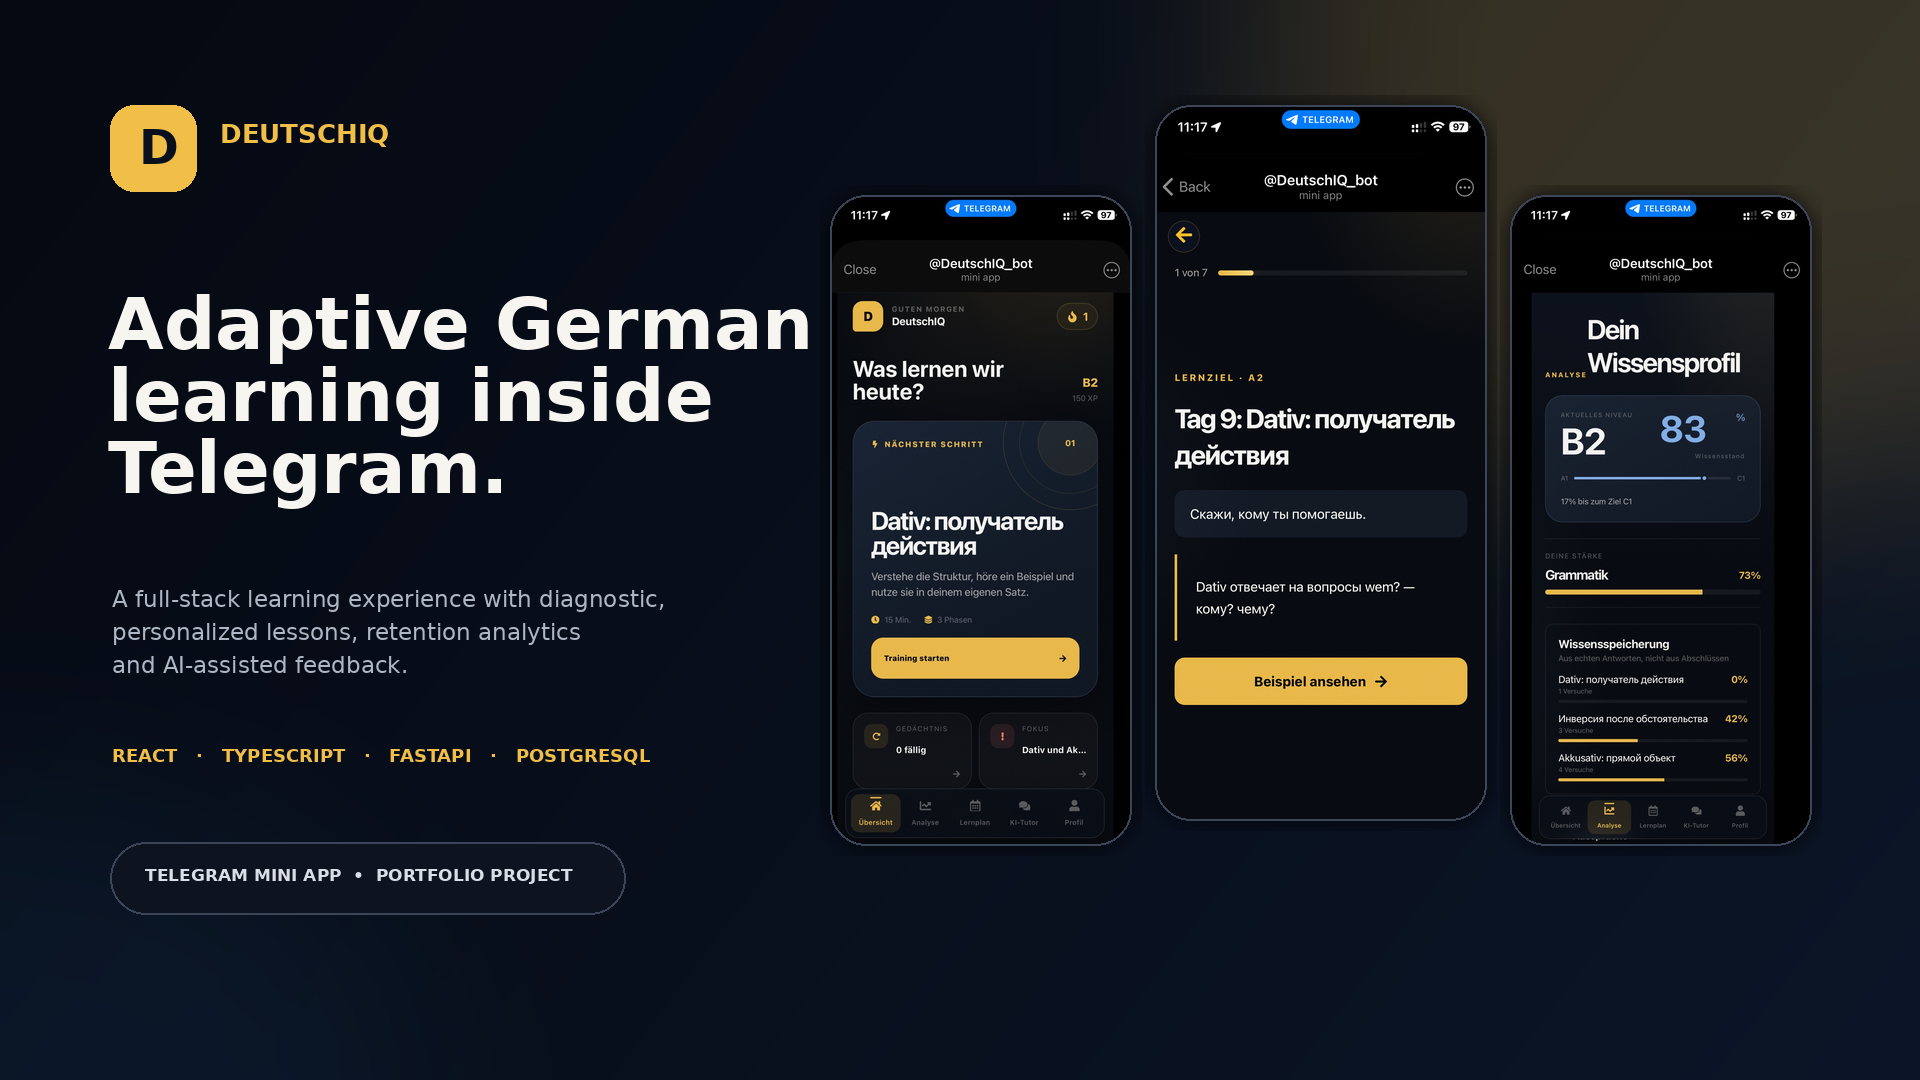
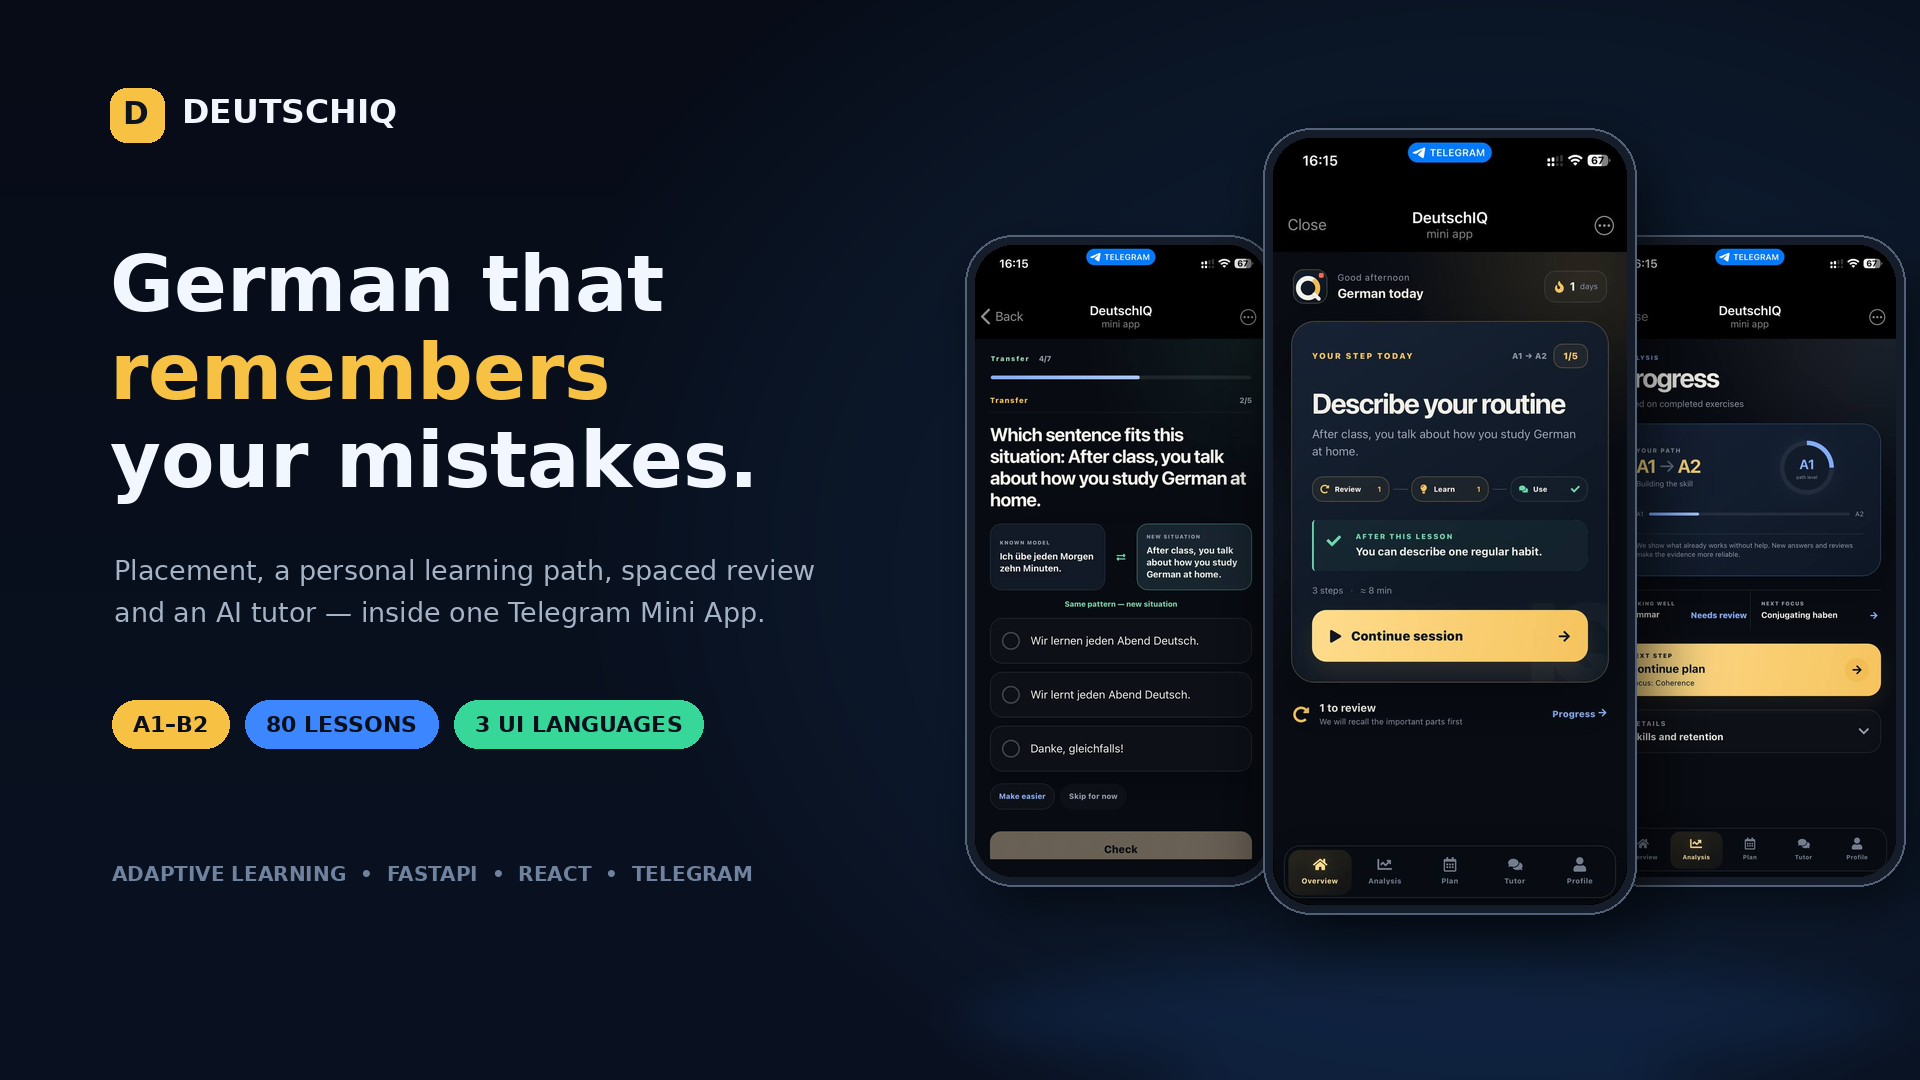
Refresh GitHub portfolio previews

diff --git a/tools/render_portfolio_previews.py b/tools/render_portfolio_previews.py
@@ -1,0 +1,173 @@
+#!/usr/bin/env python3
+"""Render deterministic GitHub portfolio previews from the current app captures."""
+
+from pathlib import Path
+
+from PIL import Image, ImageDraw, ImageFilter, ImageFont
+
+
+ROOT = Path(__file__).resolve().parents[1]
+SHOTS = ROOT / "docs" / "screenshots"
+W, H = 1920, 1080
+
+FONT_REGULAR = "/usr/share/fonts/truetype/dejavu/DejaVuSans.ttf"
+FONT_BOLD = "/usr/share/fonts/truetype/dejavu/DejaVuSans-Bold.ttf"
+
+INK = (242, 247, 255)
+MUTED = (165, 179, 199)
+GOLD = (247, 193, 67)
+BLUE = (60, 134, 255)
+GREEN = (55, 214, 153)
+
+
+def font(size: int, bold: bool = False) -> ImageFont.FreeTypeFont:
+    return ImageFont.truetype(FONT_BOLD if bold else FONT_REGULAR, size)
+
+
+def background() -> Image.Image:
+    image = Image.new("RGB", (W, H))
+    px = image.load()
+    for y in range(H):
+        for x in range(W):
+            base = y / H
+            glow = max(0.0, 1.0 - (((x - 1500) / 950) ** 2 + ((y - 460) / 720) ** 2))
+            px[x, y] = (
+                int(7 + 3 * base + 6 * glow),
+                int(12 + 6 * base + 15 * glow),
+                int(23 + 11 * base + 23 * glow),
+            )
+    return image
+
+
+def rounded_rect(draw: ImageDraw.ImageDraw, box, radius, fill, outline=None, width=1):
+    draw.rounded_rectangle(box, radius=radius, fill=fill, outline=outline, width=width)
+
+
+def phone(source: Path, width: int, *, border: int = 10, radius: int = 38) -> Image.Image:
+    shot = Image.open(source).convert("RGB")
+    height = round(width * shot.height / shot.width)
+    shot = shot.resize((width, height), Image.Resampling.LANCZOS)
+    mask = Image.new("L", shot.size, 0)
+    ImageDraw.Draw(mask).rounded_rectangle((0, 0, width - 1, height - 1), radius=radius, fill=255)
+    frame = Image.new("RGBA", (width + border * 2, height + border * 2), (0, 0, 0, 0))
+    fd = ImageDraw.Draw(frame)
+    fd.rounded_rectangle(
+        (0, 0, frame.width - 1, frame.height - 1),
+        radius=radius + border,
+        fill=(22, 29, 42, 255),
+        outline=(83, 98, 120, 255),
+        width=2,
+    )
+    frame.paste(shot, (border, border), mask)
+    return frame
+
+
+def paste_shadow(canvas: Image.Image, item: Image.Image, xy: tuple[int, int], blur=28, opacity=150):
+    shadow = Image.new("RGBA", canvas.size, (0, 0, 0, 0))
+    alpha = item.getchannel("A")
+    solid = Image.new("RGBA", item.size, (0, 0, 0, opacity))
+    solid.putalpha(alpha.point(lambda value: value * opacity // 255))
+    shadow.alpha_composite(solid, (xy[0] + 12, xy[1] + 24))
+    canvas.alpha_composite(shadow.filter(ImageFilter.GaussianBlur(blur)))
+    canvas.alpha_composite(item, xy)
+
+
+def pill(draw: ImageDraw.ImageDraw, x: int, y: int, text: str, color=GOLD):
+    f = font(22, True)
+    bounds = draw.textbbox((0, 0), text, font=f)
+    pw = bounds[2] - bounds[0] + 42
+    rounded_rect(draw, (x, y, x + pw, y + 48), 24, (*color, 255))
+    draw.text((x + 21, y + 11), text, font=f, fill=(9, 16, 27, 255))
+    return x + pw
+
+
+def draw_brand(draw: ImageDraw.ImageDraw, x=110, y=88):
+    rounded_rect(draw, (x, y, x + 54, y + 54), 16, GOLD)
+    draw.text((x + 13, y + 7), "D", font=font(31, True), fill=(14, 20, 30))
+    draw.text((x + 72, y + 4), "DEUTSCHIQ", font=font(33, True), fill=INK)
+
+
+def cover():
+    canvas = background().convert("RGBA")
+    draw = ImageDraw.Draw(canvas, "RGBA")
+    draw_brand(draw)
+
+    draw.text((110, 238), "German that", font=font(78, True), fill=INK)
+    draw.text((110, 326), "remembers", font=font(78, True), fill=GOLD)
+    draw.text((110, 414), "your mistakes.", font=font(78, True), fill=INK)
+
+    copy = [
+        "Placement, a personal learning path, spaced review",
+        "and an AI tutor — inside one Telegram Mini App.",
+    ]
+    for i, line in enumerate(copy):
+        draw.text((114, 554 + i * 42), line, font=font(27), fill=MUTED)
+
+    px = 112
+    for label, color in (("A1–B2", GOLD), ("80 LESSONS", BLUE), ("3 UI LANGUAGES", GREEN)):
+        px = pill(draw, px, 700, label, color) + 16
+
+    draw.text((112, 862), "ADAPTIVE LEARNING  •  FASTAPI  •  REACT  •  TELEGRAM", font=font(20, True), fill=(111, 130, 158))
+
+    left = phone(SHOTS / "03-lesson.png", 292)
+    center = phone(SHOTS / "01-home.png", 354)
+    right = phone(SHOTS / "05-analytics.png", 292)
+    paste_shadow(canvas, left, (965, 235), blur=24, opacity=125)
+    paste_shadow(canvas, right, (1594, 235), blur=24, opacity=125)
+    paste_shadow(canvas, center, (1263, 128), blur=34, opacity=185)
+
+    # Give the device group a quiet base rather than leaving it floating.
+    base = Image.new("RGBA", canvas.size, (0, 0, 0, 0))
+    bd = ImageDraw.Draw(base)
+    bd.ellipse((930, 944, 1920, 1088), fill=(33, 93, 180, 38))
+    canvas = Image.alpha_composite(canvas, base.filter(ImageFilter.GaussianBlur(28)))
+    return canvas.convert("RGB")
+
+
+def product_preview():
+    canvas = background().convert("RGBA")
+    draw = ImageDraw.Draw(canvas, "RGBA")
+    draw_brand(draw, 110, 68)
+    draw.text((110, 157), "One connected learning loop.", font=font(61, True), fill=INK)
+    draw.text(
+        (112, 235),
+        "From the first placement question to a plan, guided practice and personal support.",
+        font=font(26),
+        fill=MUTED,
+    )
+
+    items = [
+        ("01", "PLACE", "02-diagnostic.png", GOLD),
+        ("02", "UNDERSTAND", "08-result.png", BLUE),
+        ("03", "PLAN", "04-plan.png", GREEN),
+        ("04", "PRACTISE", "06-ai-tutor.png", GOLD),
+        ("05", "PROGRESS", "07-profile.png", BLUE),
+    ]
+    card_w, gap, start_x = 292, 48, 162
+    for index, (number, label, filename, accent) in enumerate(items):
+        x = start_x + index * (card_w + gap)
+        draw.text((x + 5, 330), number, font=font(23, True), fill=accent)
+        draw.text((x + 52, 330), label, font=font(22, True), fill=(190, 204, 223))
+        line_y = 372
+        draw.rounded_rectangle((x, line_y, x + card_w, line_y + 4), radius=2, fill=(*accent, 185))
+        device = phone(SHOTS / filename, card_w - 12, border=8, radius=30)
+        paste_shadow(canvas, device, (x - 2, 402), blur=20, opacity=135)
+
+    return canvas.convert("RGB")
+
+
+def main():
+    required = [SHOTS / f"{i:02d}-{name}.png" for i, name in enumerate(
+        ["home", "diagnostic", "lesson", "plan", "analytics", "ai-tutor", "profile", "result"], 1
+    )]
+    missing = [str(path) for path in required if not path.exists()]
+    if missing:
+        raise SystemExit("Missing screenshots:\n" + "\n".join(missing))
+
+    cover().save(SHOTS / "deutschiq-cover.png", optimize=True)
+    product_preview().save(SHOTS / "deutschiq-product-preview.png", optimize=True)
+    print("Rendered deutschiq-cover.png and deutschiq-product-preview.png")
+
+
+if __name__ == "__main__":
+    main()

diff --git a/README.md b/README.md
@@ -36,21 +36,27 @@ The public application runs as a Docker service on Render with a signed Telegram
 ## Product preview
 
 <p align="center">
-  <img src="docs/screenshots/01-home.png" width="230" alt="Personalized home screen">
-  <img src="docs/screenshots/02-diagnostic.png" width="230" alt="Adaptive German diagnostic">
-  <img src="docs/screenshots/03-lesson.png" width="230" alt="Interactive German lesson">
+  <img src="docs/screenshots/deutschiq-product-preview.png" alt="DeutschIQ product journey from placement to personal progress">
 </p>
 
-<p align="center">
-  <img src="docs/screenshots/04-plan.png" width="230" alt="Personalized learning plan">
-  <img src="docs/screenshots/05-analytics.png" width="230" alt="Knowledge analytics">
-  <img src="docs/screenshots/06-ai-tutor.png" width="230" alt="AI German tutor">
-</p>
-
-<p align="center">
-  <img src="docs/screenshots/07-profile.png" width="230" alt="Learner profile">
-  <img src="docs/screenshots/08-result.png" width="230" alt="Placement result">
-</p>
+<details>
+  <summary><strong>View individual app screens</strong></summary>
+  <br>
+  <p align="center">
+    <img src="docs/screenshots/01-home.png" width="230" alt="Personalized home screen">
+    <img src="docs/screenshots/02-diagnostic.png" width="230" alt="Adaptive German diagnostic">
+    <img src="docs/screenshots/03-lesson.png" width="230" alt="Interactive German lesson">
+  </p>
+  <p align="center">
+    <img src="docs/screenshots/04-plan.png" width="230" alt="Personalized learning plan">
+    <img src="docs/screenshots/05-analytics.png" width="230" alt="Knowledge analytics">
+    <img src="docs/screenshots/06-ai-tutor.png" width="230" alt="AI German tutor">
+  </p>
+  <p align="center">
+    <img src="docs/screenshots/07-profile.png" width="230" alt="Learner profile">
+    <img src="docs/screenshots/08-result.png" width="230" alt="Placement result">
+  </p>
+</details>
 
 ## Key features
 
